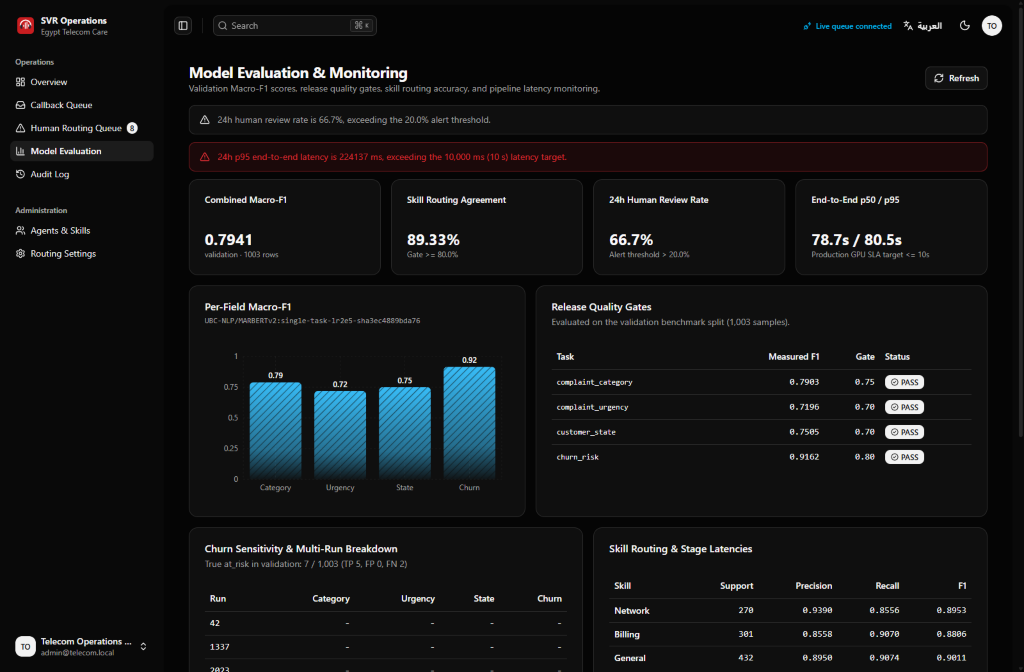
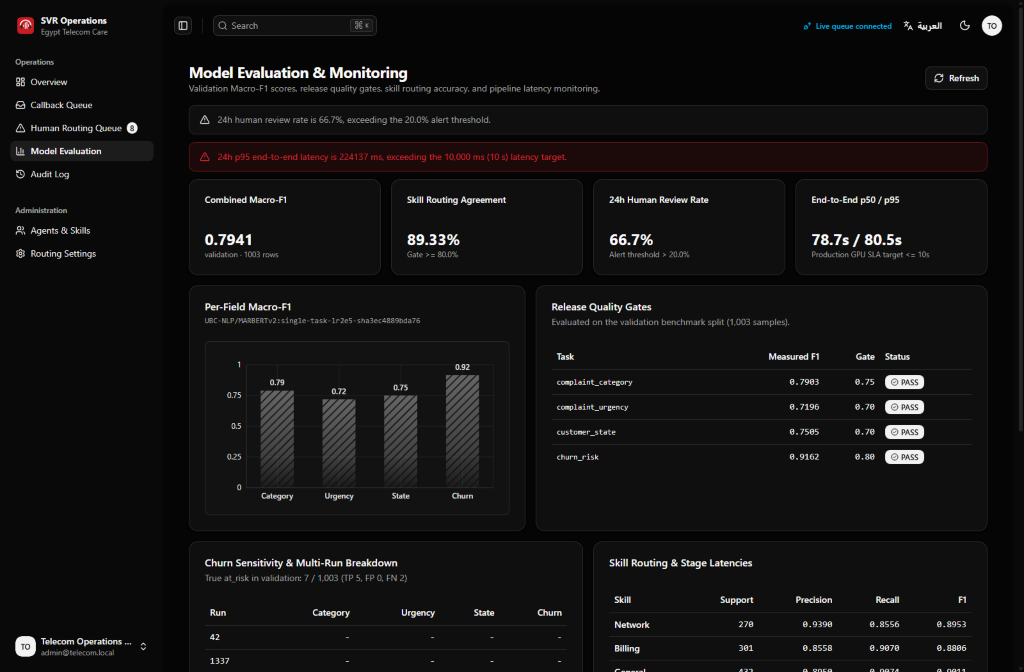
Match monochrome hatched column chart reference style and update screenshots

diff --git a/frontend/src/features/overview/index.tsx b/frontend/src/features/overview/index.tsx
@@ -73,15 +73,6 @@ const SHORT_CATEGORY_LABELS: Record<string, { en: string; ar: string }> = {
   other: { en: 'Other', ar: 'أخرى' },
 }
 
-const CATEGORY_GRADIENTS = [
-  { id: 'catGrad-0', top: '#38bdf8', bottom: '#2563eb', glow: 'rgba(56, 189, 248, 0.38)' },
-  { id: 'catGrad-1', top: '#22d3ee', bottom: '#0284c7', glow: 'rgba(34, 211, 238, 0.36)' },
-  { id: 'catGrad-2', top: '#2dd4bf', bottom: '#0d9488', glow: 'rgba(45, 212, 191, 0.34)' },
-  { id: 'catGrad-3', top: '#818cf8', bottom: '#4f46e5', glow: 'rgba(129, 140, 248, 0.36)' },
-  { id: 'catGrad-4', top: '#a78bfa', bottom: '#7c3aed', glow: 'rgba(167, 139, 250, 0.34)' },
-  { id: 'catGrad-5', top: '#94a3b8', bottom: '#475569', glow: 'rgba(148, 163, 184, 0.3)' },
-] as const
-
 function seconds(ms: number | undefined): string {
   if (ms === undefined || !Number.isFinite(ms) || ms <= 0) return '-'
   return `${(ms / 1000).toFixed(1)}s`
@@ -323,7 +314,7 @@ export function OverviewPage() {
                   )}
                 </CardDescription>
               </CardHeader>
-              <CardContent className='ps-2'>
+              <CardContent>
                 {categoryData.length === 0 ? (
                   <p className='px-4 py-8 text-sm text-muted-foreground'>
                     {L('No classified tickets yet.', 'لا توجد تذاكر مصنفة بعد.')}
@@ -333,46 +324,42 @@ export function OverviewPage() {
                   <ResponsiveContainer width='100%' height={300}>
                     <BarChart
                       data={categoryData}
-                      margin={{ top: 26, right: 16, left: 0, bottom: 8 }}
+                      margin={{ top: 28, right: 16, left: 0, bottom: 8 }}
                     >
                       <defs>
                         <linearGradient id='catFadeGrad' x1='0' y1='0' x2='0' y2='1'>
-                          <stop offset='0%' stopColor='#ffffff' stopOpacity={1} />
-                          <stop offset='70%' stopColor='#ffffff' stopOpacity={0.55} />
-                          <stop offset='100%' stopColor='#ffffff' stopOpacity={0.04} />
+                          <stop offset='0%' stopColor='#ffffff' stopOpacity={0.95} />
+                          <stop offset='65%' stopColor='#ffffff' stopOpacity={0.55} />
+                          <stop offset='100%' stopColor='#ffffff' stopOpacity={0.10} />
                         </linearGradient>
                         <mask id='catFadeMask' maskUnits='objectBoundingBox' maskContentUnits='objectBoundingBox'>
                           <rect x='0' y='0' width='1' height='1' fill='url(#catFadeGrad)' />
                         </mask>
-                        {CATEGORY_GRADIENTS.map((g, i) => (
-                          <pattern
-                            key={g.id}
-                            id={`catPat-${i}`}
-                            width='8'
-                            height='8'
-                            patternUnits='userSpaceOnUse'
-                            patternTransform='rotate(45)'
-                          >
-                            <rect width='8' height='8' fill={g.top} />
-                            <line
-                              x1='0'
-                              y1='0'
-                              x2='0'
-                              y2='8'
-                              stroke='var(--card)'
-                              strokeWidth='2.2'
-                              strokeOpacity='0.6'
-                            />
-                          </pattern>
-                        ))}
+                        <pattern
+                          id='catHatchPattern'
+                          width='9'
+                          height='9'
+                          patternUnits='userSpaceOnUse'
+                          patternTransform='rotate(45)'
+                        >
+                          <rect width='9' height='9' fill='var(--chart-bar-fill)' />
+                          <line
+                            x1='0'
+                            y1='0'
+                            x2='0'
+                            y2='9'
+                            stroke='var(--chart-bar-stripe)'
+                            strokeWidth='3.4'
+                          />
+                        </pattern>
                       </defs>
-                      <CartesianGrid strokeDasharray='3 3' stroke='var(--border)' opacity={0.45} />
+                      <CartesianGrid stroke='var(--chart-grid)' strokeWidth={1} />
                       <XAxis
                         dataKey='name'
-                        stroke='var(--muted-foreground)'
-                        fontSize={12}
+                        stroke='var(--chart-grid)'
+                        tick={{ fill: 'var(--chart-axis)', fontSize: 12, fontWeight: 500 }}
                         tickLine={false}
-                        axisLine={false}
+                        axisLine={{ stroke: 'var(--chart-grid)' }}
                         interval={0}
                         angle={0}
                         textAnchor='middle'
@@ -380,10 +367,10 @@ export function OverviewPage() {
                         height={32}
                       />
                       <YAxis
-                        stroke='var(--muted-foreground)'
-                        fontSize={12}
+                        stroke='var(--chart-grid)'
+                        tick={{ fill: 'var(--chart-axis)', fontSize: 12 }}
                         tickLine={false}
-                        axisLine={false}
+                        axisLine={{ stroke: 'var(--chart-grid)' }}
                         allowDecimals={false}
                       />
                       <Tooltip
@@ -393,7 +380,7 @@ export function OverviewPage() {
                           const row = payload[0]?.payload as (typeof categoryData)[number] | undefined
                           if (!row) return null
                           return (
-                            <div className='rounded-lg border border-border bg-popover px-3 py-2 text-xs text-popover-foreground shadow-lg'>
+                            <div className='rounded-md border border-border bg-popover px-3 py-2 text-xs text-popover-foreground shadow-lg'>
                               <div className='font-semibold'>{row.fullName}</div>
                               <div className='mt-0.5 flex items-center gap-2 text-muted-foreground tabular-nums'>
                                 <span>{L('Tickets', 'التذاكر')}: <strong className='text-foreground'>{row.count}</strong></span>
@@ -406,10 +393,10 @@ export function OverviewPage() {
                       />
                       <Bar
                         dataKey='count'
-                        radius={[6, 6, 0, 0]}
-                        maxBarSize={56}
+                        radius={[0, 0, 0, 0]}
+                        maxBarSize={52}
                         isAnimationActive
-                        animationDuration={750}
+                        animationDuration={850}
                         animationEasing='ease-out'
                         className='cursor-pointer'
                         onClick={() => void navigate({ to: '/dashboard' })}
@@ -418,20 +405,17 @@ export function OverviewPage() {
                           dataKey='count'
                           position='top'
                           offset={8}
-                          fill='var(--foreground)'
+                          fill='var(--chart-axis)'
                           fontSize={12}
-                          fontWeight={600}
+                          fontWeight={500}
                         />
-                        {categoryData.map((entry, idx) => {
-                          const gradIdx = Math.min(idx, CATEGORY_GRADIENTS.length - 1)
-                          return (
-                            <Cell
-                              key={entry.key}
-                              fill={`url(#catPat-${gradIdx})`}
-                              mask='url(#catFadeMask)'
-                            />
-                          )
-                        })}
+                        {categoryData.map((entry) => (
+                          <Cell
+                            key={entry.key}
+                            fill='url(#catHatchPattern)'
+                            mask='url(#catFadeMask)'
+                          />
+                        ))}
                       </Bar>
                     </BarChart>
                   </ResponsiveContainer>
@@ -508,7 +492,7 @@ export function OverviewPage() {
                   )}
                 </CardDescription>
               </CardHeader>
-              <CardContent className='ps-2'>
+              <CardContent>
                 <div className='svr-chart'>
                 <ResponsiveContainer width='100%' height={240}>
                   <BarChart
@@ -517,25 +501,37 @@ export function OverviewPage() {
                   >
                     <defs>
                       <linearGradient id='histFadeGrad' x1='0' y1='0' x2='0' y2='1'>
-                        <stop offset='0%' stopColor='#ffffff' stopOpacity={1} />
-                        <stop offset='70%' stopColor='#ffffff' stopOpacity={0.55} />
-                        <stop offset='100%' stopColor='#ffffff' stopOpacity={0.04} />
+                        <stop offset='0%' stopColor='#ffffff' stopOpacity={0.95} />
+                        <stop offset='65%' stopColor='#ffffff' stopOpacity={0.55} />
+                        <stop offset='100%' stopColor='#ffffff' stopOpacity={0.10} />
                       </linearGradient>
                       <mask id='histFadeMask' maskUnits='objectBoundingBox' maskContentUnits='objectBoundingBox'>
                         <rect x='0' y='0' width='1' height='1' fill='url(#histFadeGrad)' />
                       </mask>
-                      <pattern id='histPatOk' width='8' height='8' patternUnits='userSpaceOnUse' patternTransform='rotate(45)'>
-                        <rect width='8' height='8' fill='#38bdf8' />
-                        <line x1='0' y1='0' x2='0' y2='8' stroke='var(--card)' strokeWidth='2.2' strokeOpacity='0.6' />
+                      <pattern id='histPatOk' width='9' height='9' patternUnits='userSpaceOnUse' patternTransform='rotate(45)'>
+                        <rect width='9' height='9' fill='var(--chart-bar-fill)' />
+                        <line x1='0' y1='0' x2='0' y2='9' stroke='var(--chart-bar-stripe)' strokeWidth='3.4' />
                       </pattern>
-                      <pattern id='histPatWarn' width='8' height='8' patternUnits='userSpaceOnUse' patternTransform='rotate(45)'>
-                        <rect width='8' height='8' fill='#f59e0b' />
-                        <line x1='0' y1='0' x2='0' y2='8' stroke='var(--card)' strokeWidth='2.2' strokeOpacity='0.6' />
+                      <pattern id='histPatWarn' width='9' height='9' patternUnits='userSpaceOnUse' patternTransform='rotate(45)'>
+                        <rect width='9' height='9' fill='var(--bar-warn)' />
+                        <line x1='0' y1='0' x2='0' y2='9' stroke='var(--chart-bar-stripe)' strokeWidth='3.4' />
                       </pattern>
                     </defs>
-                    <CartesianGrid strokeDasharray='3 3' stroke='var(--border)' opacity={0.45} />
-                    <XAxis dataKey='bin' stroke='var(--muted-foreground)' fontSize={12} tickLine={false} axisLine={false} />
-                    <YAxis stroke='var(--muted-foreground)' fontSize={12} tickLine={false} axisLine={false} allowDecimals={false} />
+                    <CartesianGrid stroke='var(--chart-grid)' strokeWidth={1} />
+                    <XAxis
+                      dataKey='bin'
+                      stroke='var(--chart-grid)'
+                      tick={{ fill: 'var(--chart-axis)', fontSize: 12 }}
+                      tickLine={false}
+                      axisLine={{ stroke: 'var(--chart-grid)' }}
+                    />
+                    <YAxis
+                      stroke='var(--chart-grid)'
+                      tick={{ fill: 'var(--chart-axis)', fontSize: 12 }}
+                      tickLine={false}
+                      axisLine={{ stroke: 'var(--chart-grid)' }}
+                      allowDecimals={false}
+                    />
                     <Tooltip
                       cursor={false}
                       contentStyle={{
@@ -550,18 +546,19 @@ export function OverviewPage() {
                     />
                     <Bar
                       dataKey='count'
-                      radius={[6, 6, 0, 0]}
+                      radius={[0, 0, 0, 0]}
                       isAnimationActive
-                      animationDuration={650}
+                      animationDuration={850}
+                      animationEasing='ease-out'
                     >
                       <LabelList
                         dataKey='count'
                         position='top'
                         offset={6}
                         formatter={(v: unknown) => (typeof v === 'number' && v > 0 ? String(v) : '')}
-                        fill='var(--foreground)'
-                        fontSize={11}
-                        fontWeight={600}
+                        fill='var(--chart-axis)'
+                        fontSize={12}
+                        fontWeight={500}
                       />
                       {histData.map((entry, idx) => (
                         <Cell

diff --git a/frontend/src/features/evaluation/index.tsx b/frontend/src/features/evaluation/index.tsx
@@ -208,21 +208,33 @@ export function EvaluationPage() {
                     >
                       <defs>
                         <linearGradient id='evalFadeGrad' x1='0' y1='0' x2='0' y2='1'>
-                          <stop offset='0%' stopColor='#ffffff' stopOpacity={1} />
-                          <stop offset='70%' stopColor='#ffffff' stopOpacity={0.55} />
-                          <stop offset='100%' stopColor='#ffffff' stopOpacity={0.04} />
+                          <stop offset='0%' stopColor='#ffffff' stopOpacity={0.95} />
+                          <stop offset='65%' stopColor='#ffffff' stopOpacity={0.55} />
+                          <stop offset='100%' stopColor='#ffffff' stopOpacity={0.10} />
                         </linearGradient>
                         <mask id='evalFadeMask' maskUnits='objectBoundingBox' maskContentUnits='objectBoundingBox'>
                           <rect x='0' y='0' width='1' height='1' fill='url(#evalFadeGrad)' />
                         </mask>
-                        <pattern id='evalPat' width='8' height='8' patternUnits='userSpaceOnUse' patternTransform='rotate(45)'>
-                          <rect width='8' height='8' fill='#38bdf8' />
-                          <line x1='0' y1='0' x2='0' y2='8' stroke='var(--card)' strokeWidth='2.2' strokeOpacity='0.6' />
+                        <pattern id='evalPat' width='9' height='9' patternUnits='userSpaceOnUse' patternTransform='rotate(45)'>
+                          <rect width='9' height='9' fill='var(--chart-bar-fill)' />
+                          <line x1='0' y1='0' x2='0' y2='9' stroke='var(--chart-bar-stripe)' strokeWidth='3.4' />
                         </pattern>
                       </defs>
-                      <CartesianGrid strokeDasharray='3 3' stroke='var(--border)' opacity={0.45} />
-                      <XAxis dataKey='field' stroke='var(--muted-foreground)' fontSize={12} tickLine={false} axisLine={false} />
-                      <YAxis domain={[0, 1]} stroke='var(--muted-foreground)' fontSize={12} tickLine={false} axisLine={false} />
+                      <CartesianGrid stroke='var(--chart-grid)' strokeWidth={1} />
+                      <XAxis
+                        dataKey='field'
+                        stroke='var(--chart-grid)'
+                        tick={{ fill: 'var(--chart-axis)', fontSize: 12, fontWeight: 500 }}
+                        tickLine={false}
+                        axisLine={{ stroke: 'var(--chart-grid)' }}
+                      />
+                      <YAxis
+                        domain={[0, 1]}
+                        stroke='var(--chart-grid)'
+                        tick={{ fill: 'var(--chart-axis)', fontSize: 12 }}
+                        tickLine={false}
+                        axisLine={{ stroke: 'var(--chart-grid)' }}
+                      />
                       <Tooltip
                         cursor={false}
                         contentStyle={{
@@ -237,18 +249,20 @@ export function EvaluationPage() {
                       />
                       <Bar
                         dataKey='f1'
-                        radius={[6, 6, 0, 0]}
+                        radius={[0, 0, 0, 0]}
+                        maxBarSize={52}
                         isAnimationActive
-                        animationDuration={650}
+                        animationDuration={850}
+                        animationEasing='ease-out'
                       >
                         <LabelList
                           dataKey='f1'
                           position='top'
-                          offset={6}
+                          offset={8}
                           formatter={(v: unknown) => (typeof v === 'number' ? v.toFixed(2) : '')}
-                          fill='var(--foreground)'
+                          fill='var(--chart-axis)'
                           fontSize={12}
-                          fontWeight={600}
+                          fontWeight={500}
                         />
                         {chartData.map((entry) => (
                           <Cell

diff --git a/frontend/src/styles/index.css b/frontend/src/styles/index.css
@@ -86,18 +86,25 @@
   }
 }
 
+.svr-chart {
+  background-color: var(--chart-canvas);
+  border: 1px solid var(--border);
+  border-radius: var(--radius-md);
+  padding: 0.75rem 0.75rem 0.5rem 0.25rem;
+}
+
 .svr-chart .recharts-bar-rectangle {
   transform-box: fill-box;
   transform-origin: bottom;
-  transition: opacity 220ms ease, filter 220ms ease, transform 220ms cubic-bezier(0.22, 1, 0.36, 1);
+  transition: opacity 240ms ease, filter 240ms ease, transform 240ms cubic-bezier(0.22, 1, 0.36, 1);
 }
 
 .svr-chart .recharts-bar-rectangles:hover .recharts-bar-rectangle:not(:hover) {
-  opacity: 0.35;
+  opacity: 0.42;
 }
 
 .svr-chart .recharts-bar-rectangle:hover {
   opacity: 1;
-  filter: brightness(1.16);
-  transform: scaleY(1.03);
+  filter: brightness(1.28);
+  transform: scaleY(1.025);
 }

diff --git a/frontend/src/styles/theme.css b/frontend/src/styles/theme.css
@@ -35,6 +35,11 @@
   --brand-red: #C81D20;
   --urgent: #C81D20;
   --bar-warn: #d97706;
+  --chart-canvas: #fafafa;
+  --chart-grid: rgba(15, 23, 42, 0.08);
+  --chart-bar-fill: #334155;
+  --chart-bar-stripe: #fafafa;
+  --chart-axis: #334155;
 }
 
 .dark {
@@ -70,6 +75,11 @@
   --chart-4: oklch(0.72 0.19 305);
   --chart-5: oklch(0.66 0.21 24);
   --bar-warn: #f59e0b;
+  --chart-canvas: #121212;
+  --chart-grid: rgba(255, 255, 255, 0.08);
+  --chart-bar-fill: #6b6b6b;
+  --chart-bar-stripe: #121212;
+  --chart-axis: #e5e5e5;
 }
 
 @theme inline {
